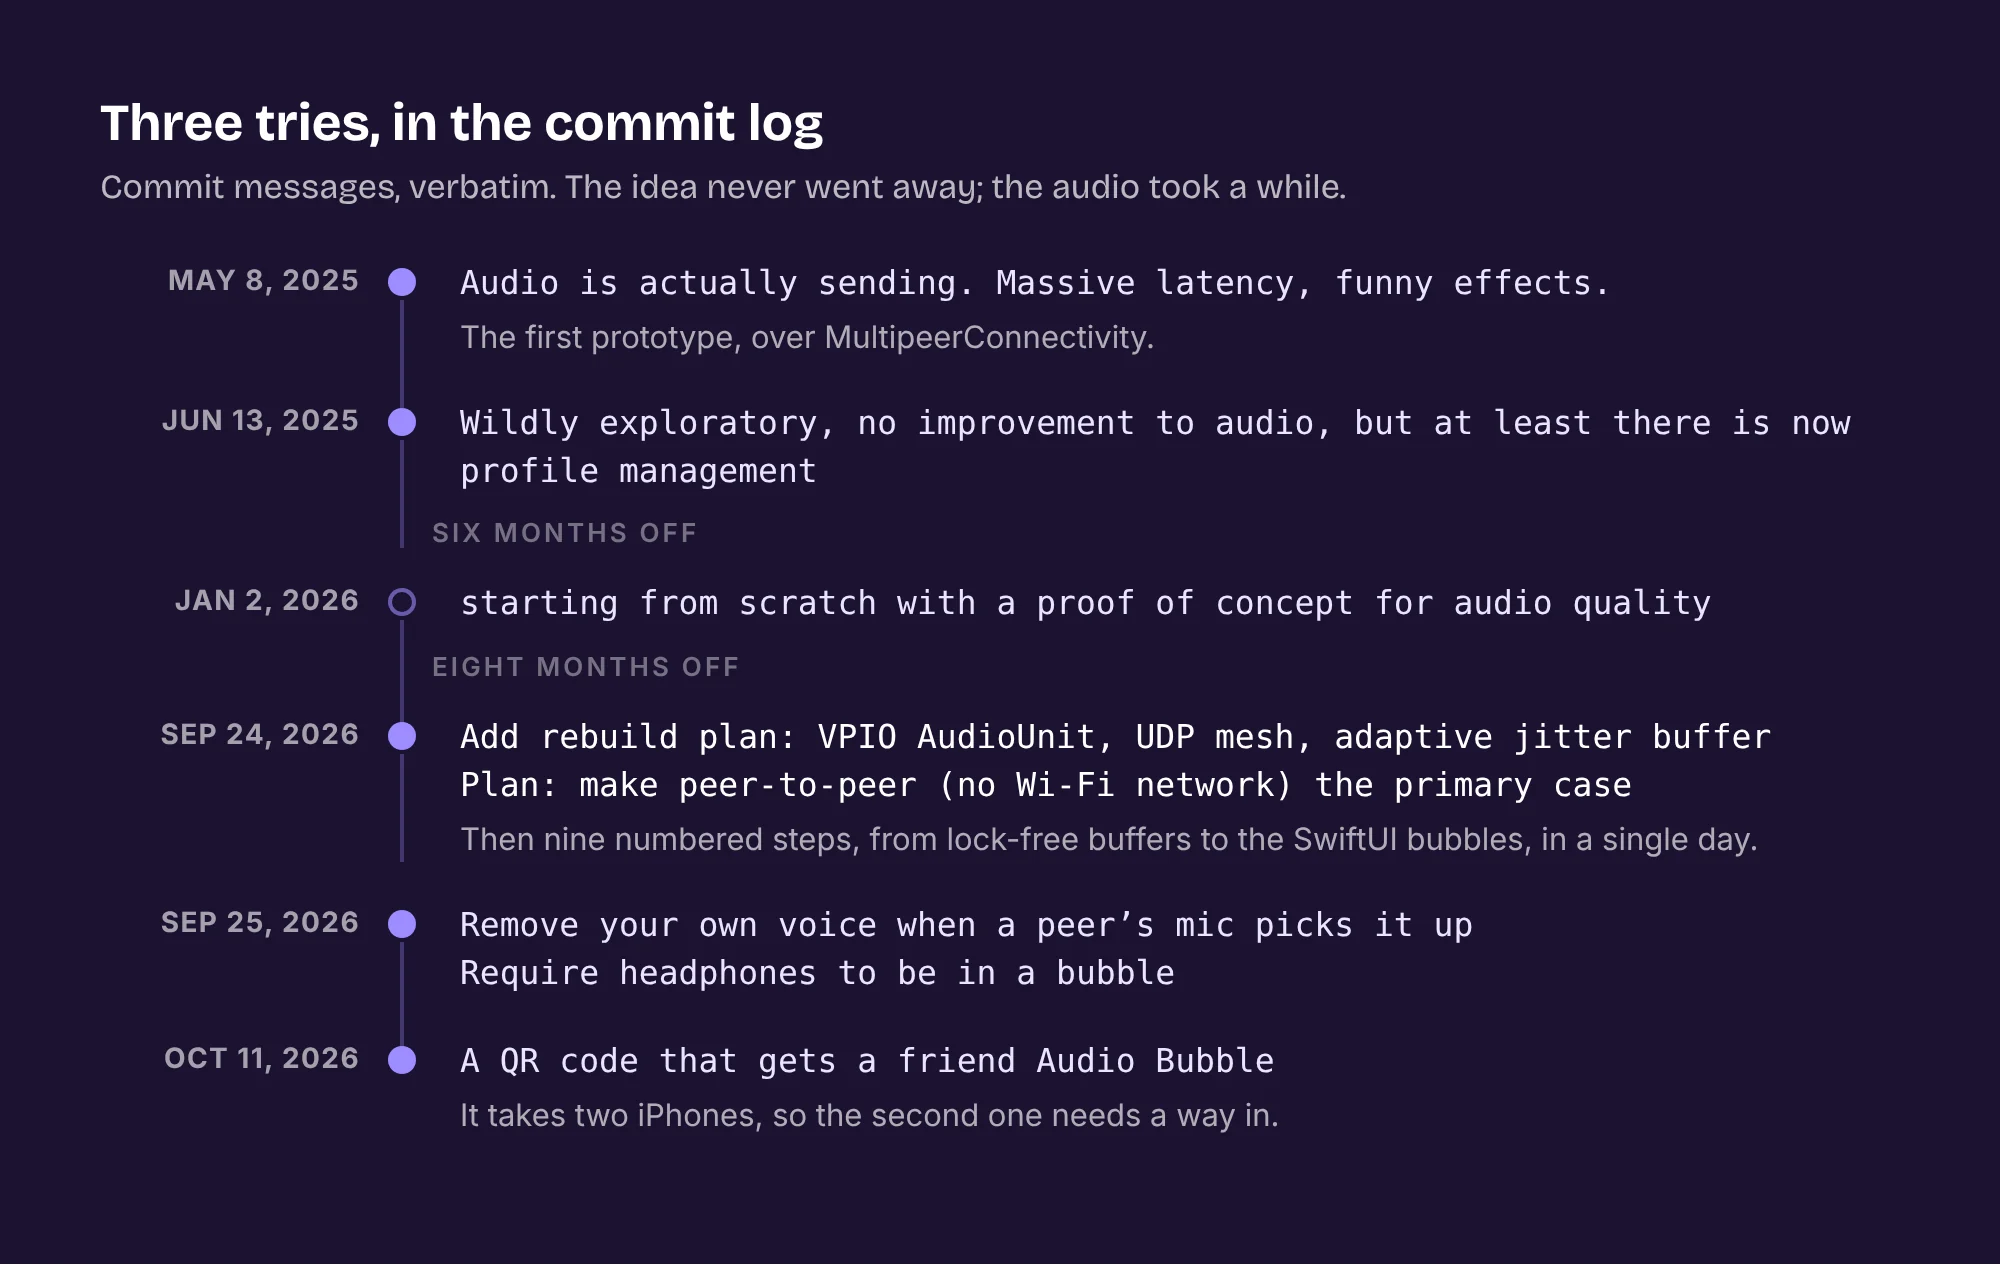
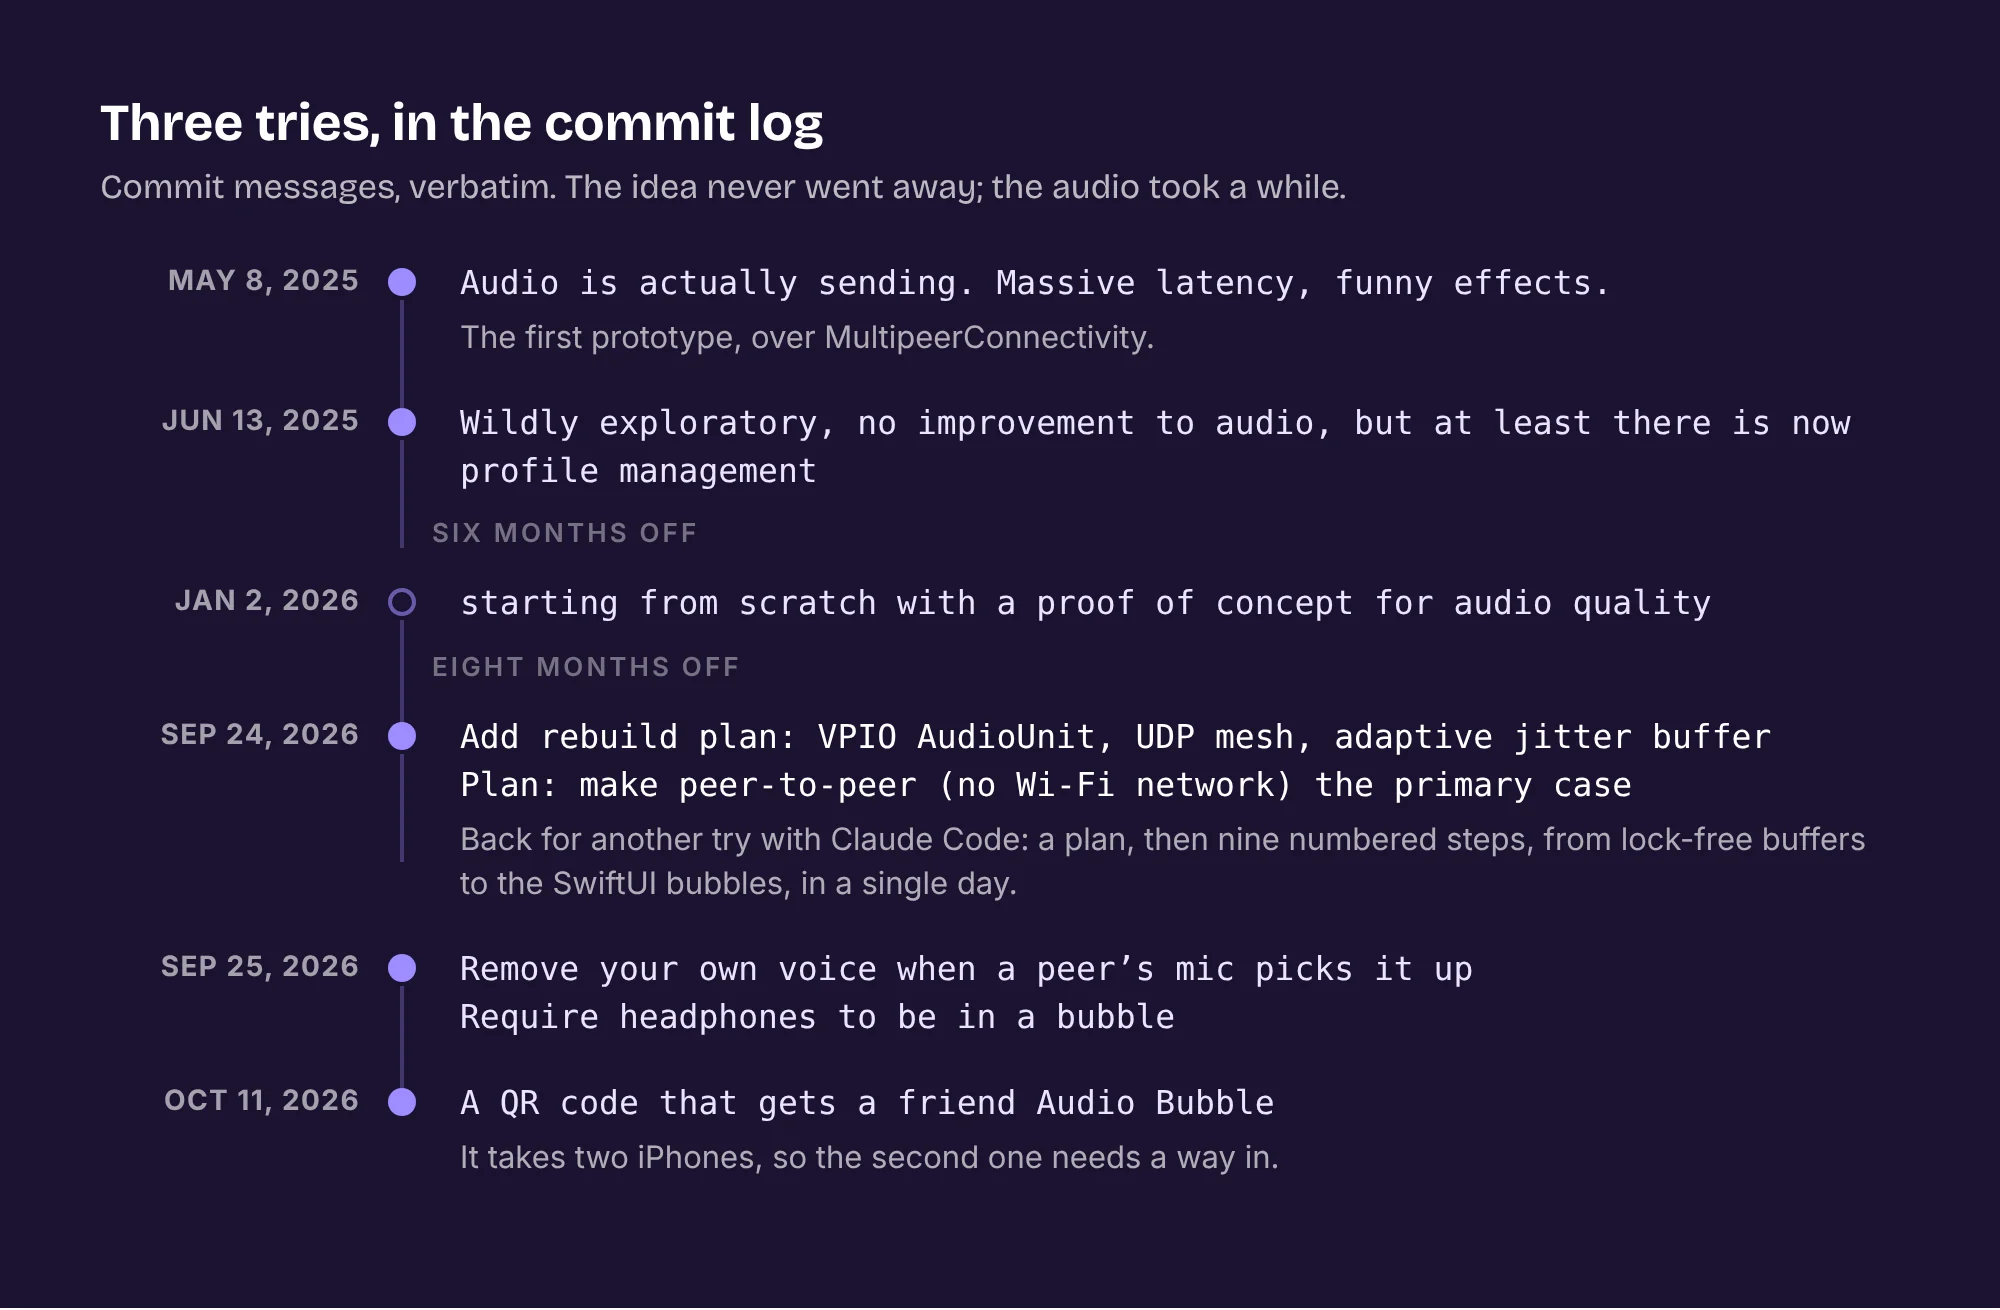
Audio Bubble: why the rebuild happened
Claude-Session: https://claude.ai/code/session_01ApH9jEjLK1LJwCUv1Ydmxw

diff --git a/audio-bubble/index.html b/audio-bubble/index.html
@@ -68,7 +68,7 @@
 <p>Then I made it use a local mesh network, so it works underground, without internet. The phones talk directly to each other.</p>
 <figure><div class="slot " data-src="../assets/media/audio-bubble/process-2" data-exts="webp,jpg,png,gif" data-kind="image" data-alt="The audio path from mic to AirPods, and four phones connected to each other in a mesh"><div class="slot-ph"><span>Process image</span><code>assets/media/audio-bubble/process-2.webp</code></div></div><figcaption>The rebuilt audio path, and the mesh it runs on.</figcaption></figure>
 <h3>Three tries</h3>
-<p>The idea came quickly; the audio didn’t. The first prototypes worked, technically, with a delay that made conversation impossible. [Add what finally made you start over.]</p>
+<p>The idea came quickly; the audio didn’t. The first prototypes worked, technically, with a delay that made conversation impossible. What brought me back this fall was how much Claude Code had improved. A new model had just come out, and it felt worth another shot. This time I started with a plan for why the earlier attempts sounded bad, then rebuilt the audio from the ground up.</p>
 <figure><div class="slot " data-src="../assets/media/audio-bubble/process-4" data-exts="webp,jpg,png,gif" data-kind="image" data-alt="A timeline of Audio Bubble commit messages from 2025 to 2026"><div class="slot-ph"><span>Process image</span><code>assets/media/audio-bubble/process-4.webp</code></div></div><figcaption>Three tries, in the commit log.</figcaption></figure>
 <figure><div class="slot " data-src="../assets/media/audio-bubble/process-3" data-exts="webp,jpg,png,gif" data-kind="image" data-alt="A bar chart comparing more than 100 ms of delay in 2025 with an expected 20 to 35 ms after the rebuild"><div class="slot-ph"><span>Process image</span><code>assets/media/audio-bubble/process-3.webp</code></div></div><figcaption>Where the delay went: measured before, expected after.</figcaption></figure>
 <h3>What made it in</h3>

diff --git a/README.md b/README.md
@@ -46,7 +46,7 @@ Placeholders fill themselves in. Each one looks for a file by name and shows it 
 Videos can be `.mp4` or `.webm`; keep them small (H.264, about 720 px wide, no audio for loops). For example:
 `ffmpeg -i in.mov -vf scale=720:-2 -c:v libx264 -crf 26 -an -movflags +faststart closeup-1.mp4`
 
-“How it came together” is a draft on every app page, written from your notes around the process images. Two bracketed prompts remain (Cookbo’s “Working with AI”, Audio Bubble’s “Three tries”).
+“How it came together” is a draft on every app page, written from your notes around the process images. One bracketed prompt remains, in Cookbo’s “Working with AI”.
 When a draft is ready, remove `draft` from its `<section>` and the “Draft” tag from its heading.
 
 ## The page transition
